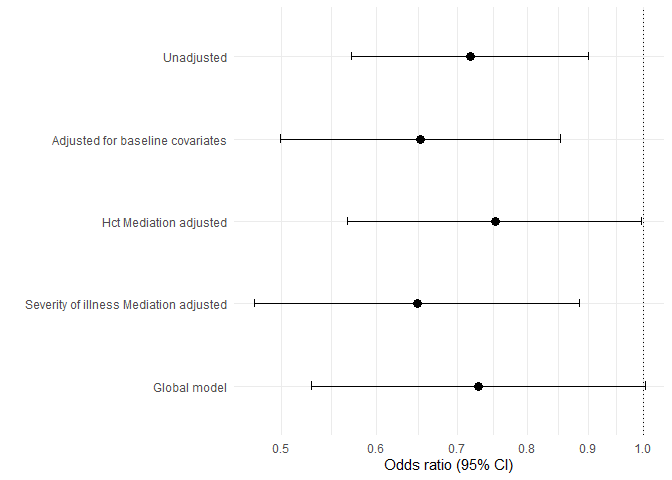
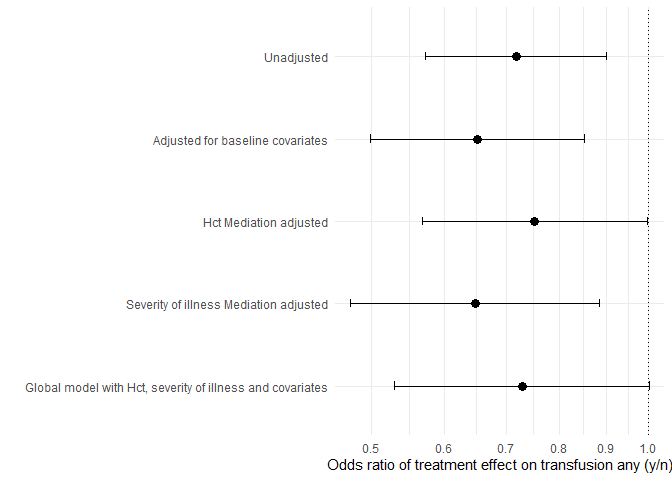
simplfying

diff --git a/Analysis_medflex_for_Git2.md b/Analysis_medflex_for_Git2.md
@@ -394,21 +394,26 @@ plot.a
 
 # Medflex (sequential approach)
 
-<https://academic.oup.com/ije/article/47/3/829/4829681?login=true>
+Modeling approach informed by
 
-kristy paper
+kristy Robledo’s paper
 <https://academic.oup.com/ejendo/article/189/1/50/7219871?login=true>
 <https://github.com/kristyrobledo/T4DM_mediation_paper>
 
-instruction paper
-<https://bmcmedresmethodol.biomedcentral.com/articles/10.1186/s12874-022-01764-w>
+Zoe Aitken’s paper on sequential mediation
+<https://academic.oup.com/ije/article/47/3/829/4829681?login=true>
 
+and D Zugna’s instruction paper
+<https://bmcmedresmethodol.biomedcentral.com/articles/10.1186/s12874-022-01764-w>
 (sup materials)
 <https://static-content.springer.com/esm/art%3A10.1186%2Fs12874-022-01764-w/MediaObjects/12874_2022_1764_MOESM1_ESM.pdf>
 
 ## Outcome: transufsion any (y/n)
 
 ### Mediation of Hct peak (M1 only)
+
+First we examine whether Hct alone mediates the effect of intervention
+of outcome
 
 ``` r
 final_df1 <- final_df %>% filter(!is.na(rc_transfusion_titans) &
@@ -559,7 +564,10 @@ print(paste0("Proportion mediated: ",prop_mediated_M1.model_trans_any , "%"))
 
     ## [1] "Proportion mediated: 37.1%"
 
-## Joint model including both Hct (M1) and Severity of illness (M2)
+### Transfusion (any) - all mediator joint model
+
+Next we examine whether all mediators in a joint model contribute any
+additional mediation over and above Hct
 
 ``` r
 final_df1 <- final_df %>% filter(!is.na(hct_week1_peak)&
@@ -569,44 +577,46 @@ final_df1 <- final_df %>% filter(!is.na(hct_week1_peak)&
                                   !is.na(GA_weeks_and_days_integer)&
                                   !is.na(multiple))
 
-
-#==========================================================================================================
-impData <- medflex::neImpute(rc_transfusion_titans ~ factor(treatment_cat1) +
-                     hct_week1_peak +cumalitive_blood_vol_sampled +  arterial_lines+ mech_vent_combined +
-                    GA_weeks_and_days_integer +
-                    multiple,
+impData <- medflex::neImpute(rc_transfusion_titans ~ factor(treatment_cat1) + 
+                               hct_week1_peak +
+                               cumalitive_blood_vol_sampled + 
+                               arterial_lines +
+                               mech_vent_combined + 
+                               GA_weeks_and_days_integer + 
+                               multiple,
                     family = binomial("logit"), nMed = 4, data = final_df1)
 
 
 #head(impData)
-neMod.extra.cont <- medflex::neModel(rc_transfusion_titans ~ treatment_cat10+
-                              treatment_cat11+
-                    GA_weeks_and_days_integer +
+neMod.extra.cont <- medflex::neModel(rc_transfusion_titans ~ treatment_cat10+ treatment_cat11 +
+                    GA_weeks_and_days_integer+
                     multiple,
                   family = binomial("logit"),
                   expData = impData,
-                  se = "robust")
+                 se="bootstrap",nBoot = 1000)
+```
 
+    ##   |                                                                              |                                                                      |   0%  |                                                                              |                                                                      |   1%  |                                                                              |=                                                                     |   1%  |                                                                              |=                                                                     |   2%  |                                                                              |==                                                                    |   2%  |                                                                              |==                                                                    |   3%  |                                                                              |==                                                                    |   4%  |                                                                              |===                                                                   |   4%  |                                                                              |===                                                                   |   5%  |                                                                              |====                                                                  |   5%  |                                                                              |====                                                                  |   6%  |                                                                              |=====                                                                 |   6%  |                                                                              |=====                                                                 |   7%  |                                                                              |=====                                                                 |   8%  |                                                                              |======                                                                |   8%  |                                                                              |======                                                                |   9%  |                                                                              |=======                                                               |   9%  |                                                                              |=======                                                               |  10%  |                                                                              |=======                                                               |  11%  |                                                                              |========                                                              |  11%  |                                                                              |========                                                              |  12%  |                                                                              |=========                                                             |  12%  |                                                                              |=========                                                             |  13%  |                                                                              |=========                                                             |  14%  |                                                                              |==========                                                            |  14%  |                                                                              |==========                                                            |  15%  |                                                                              |===========                                                           |  15%  |                                                                              |===========                                                           |  16%  |                                                                              |============                                                          |  16%  |                                                                              |============                                                          |  17%  |                                                                              |============                                                          |  18%  |                                                                              |=============                                                         |  18%  |                                                                              |=============                                                         |  19%  |                                                                              |==============                                                        |  19%  |                                                                              |==============                                                        |  20%  |                                                                              |==============                                                        |  21%  |                                                                              |===============                                                       |  21%  |                                                                              |===============                                                       |  22%  |                                                                              |================                                                      |  22%  |                                                                              |================                                                      |  23%  |                                                                              |================                                                      |  24%  |                                                                              |=================                                                     |  24%  |                                                                              |=================                                                     |  25%  |                                                                              |==================                                                    |  25%  |                                                                              |==================                                                    |  26%  |                                                                              |===================                                                   |  26%  |                                                                              |===================                                                   |  27%  |                                                                              |===================                                                   |  28%  |                                                                              |====================                                                  |  28%  |                                                                              |====================                                                  |  29%  |                                                                              |=====================                                                 |  29%  |                                                                              |=====================                                                 |  30%  |                                                                              |=====================                                                 |  31%  |                                                                              |======================                                                |  31%  |                                                                              |======================                                                |  32%  |                                                                              |=======================                                               |  32%  |                                                                              |=======================                                               |  33%  |                                                                              |=======================                                               |  34%  |                                                                              |========================                                              |  34%  |                                                                              |========================                                              |  35%  |                                                                              |=========================                                             |  35%  |                                                                              |=========================                                             |  36%  |                                                                              |==========================                                            |  36%  |                                                                              |==========================                                            |  37%  |                                                                              |==========================                                            |  38%  |                                                                              |===========================                                           |  38%  |                                                                              |===========================                                           |  39%  |                                                                              |============================                                          |  39%  |                                                                              |============================                                          |  40%  |                                                                              |============================                                          |  41%  |                                                                              |=============================                                         |  41%  |                                                                              |=============================                                         |  42%  |                                                                              |==============================                                        |  42%  |                                                                              |==============================                                        |  43%  |                                                                              |==============================                                        |  44%  |                                                                              |===============================                                       |  44%  |                                                                              |===============================                                       |  45%  |                                                                              |================================                                      |  45%  |                                                                              |================================                                      |  46%  |                                                                              |=================================                                     |  46%  |                                                                              |=================================                                     |  47%  |                                                                              |=================================                                     |  48%  |                                                                              |==================================                                    |  48%  |                                                                              |==================================                                    |  49%  |                                                                              |===================================                                   |  49%  |                                                                              |===================================                                   |  50%  |                                                                              |===================================                                   |  51%  |                                                                              |====================================                                  |  51%  |                                                                              |====================================                                  |  52%  |                                                                              |=====================================                                 |  52%  |                                                                              |=====================================                                 |  53%  |                                                                              |=====================================                                 |  54%  |                                                                              |======================================                                |  54%  |                                                                              |======================================                                |  55%  |                                                                              |=======================================                               |  55%  |                                                                              |=======================================                               |  56%  |                                                                              |========================================                              |  56%  |                                                                              |========================================                              |  57%  |                                                                              |========================================                              |  58%  |                                                                              |=========================================                             |  58%  |                                                                              |=========================================                             |  59%  |                                                                              |==========================================                            |  59%  |                                                                              |==========================================                            |  60%  |                                                                              |==========================================                            |  61%  |                                                                              |===========================================                           |  61%  |                                                                              |===========================================                           |  62%  |                                                                              |============================================                          |  62%  |                                                                              |============================================                          |  63%  |                                                                              |============================================                          |  64%  |                                                                              |=============================================                         |  64%  |                                                                              |=============================================                         |  65%  |                                                                              |==============================================                        |  65%  |                                                                              |==============================================                        |  66%  |                                                                              |===============================================                       |  66%  |                                                                              |===============================================                       |  67%  |                                                                              |===============================================                       |  68%  |                                                                              |================================================                      |  68%  |                                                                              |================================================                      |  69%  |                                                                              |=================================================                     |  69%  |                                                                              |=================================================                     |  70%  |                                                                              |=================================================                     |  71%  |                                                                              |==================================================                    |  71%  |                                                                              |==================================================                    |  72%  |                                                                              |===================================================                   |  72%  |                                                                              |===================================================                   |  73%  |                                                                              |===================================================                   |  74%  |                                                                              |====================================================                  |  74%  |                                                                              |====================================================                  |  75%  |                                                                              |=====================================================                 |  75%  |                                                                              |=====================================================                 |  76%  |                                                                              |======================================================                |  76%  |                                                                              |======================================================                |  77%  |                                                                              |======================================================                |  78%  |                                                                              |=======================================================               |  78%  |                                                                              |=======================================================               |  79%  |                                                                              |========================================================              |  79%  |                                                                              |========================================================              |  80%  |                                                                              |========================================================              |  81%  |                                                                              |=========================================================             |  81%  |                                                                              |=========================================================             |  82%  |                                                                              |==========================================================            |  82%  |                                                                              |==========================================================            |  83%  |                                                                              |==========================================================            |  84%  |                                                                              |===========================================================           |  84%  |                                                                              |===========================================================           |  85%  |                                                                              |============================================================          |  85%  |                                                                              |============================================================          |  86%  |                                                                              |=============================================================         |  86%  |                                                                              |=============================================================         |  87%  |                                                                              |=============================================================         |  88%  |                                                                              |==============================================================        |  88%  |                                                                              |==============================================================        |  89%  |                                                                              |===============================================================       |  89%  |                                                                              |===============================================================       |  90%  |                                                                              |===============================================================       |  91%  |                                                                              |================================================================      |  91%  |                                                                              |================================================================      |  92%  |                                                                              |=================================================================     |  92%  |                                                                              |=================================================================     |  93%  |                                                                              |=================================================================     |  94%  |                                                                              |==================================================================    |  94%  |                                                                              |==================================================================    |  95%  |                                                                              |===================================================================   |  95%  |                                                                              |===================================================================   |  96%  |                                                                              |====================================================================  |  96%  |                                                                              |====================================================================  |  97%  |                                                                              |====================================================================  |  98%  |                                                                              |===================================================================== |  98%  |                                                                              |===================================================================== |  99%  |                                                                              |======================================================================|  99%  |                                                                              |======================================================================| 100%
 
-#summary(neMod.extra.cont)
-
+``` r
 cont.extra<-data.frame(est = neMod.extra.cont$neModelFit$coefficients, confint(neMod.extra.cont))
+
 
 lht <- medflex::neLht(neMod.extra.cont, linfct = c("treatment_cat101 = 0", 
                                           "treatment_cat111  = 0", 
                                           "treatment_cat101 + treatment_cat111  = 0"))
 
+
 t<-summary(lht)
+#t
 
 cat.extra<-data.frame(est = exp(t$coefficients[,1]), exp(confint(lht)))
 
-#t
 
 
 #pte.direct.cat<-(t$coefficients[1,1]/t$coefficients[3,1])*100
 pte.indirect.cat<-(t$coefficients[2,1]/t$coefficients[3,1])*100
 #pte.indirect.cat
-
 
 cat.extra %>%
   mutate(name = c("Direct effect", "Indirect effect", "Total effect")) %>%
@@ -624,19 +634,21 @@ plot.a2
 <img src="Analysis_medflex_for_Git2_files/figure-gfm/unnamed-chunk-14-1.png" width="100%" />
 
 ``` r
-#code to table results
+#Formulat for table
 cat.extra <- cat.extra %>%
   mutate(Effect = c("Direct effect", "Indirect effect", "Total effect")) %>% relocate(Effect) %>% dplyr::rename(
     "Estimate"= est,
     "95%_CI_L"= `X95..LCL`,
-   "95%_CI_U"= `X95..UCL`)
+   "95%_CI_U"= `X95..UCL`,)
 row.names(cat.extra) <- NULL
 
 #cat.extra
 
 
 joint.M1M2.model_transfusion_any <- cat.extra
-joint.M1M2.model_transfusion_any %>% kable()# %>% kable_styling()
+
+
+joint.M1M2.model_transfusion_any %>% kable()
 ```
 
 <table>
@@ -665,10 +677,10 @@ Direct effect
 0.7636927
 </td>
 <td style="text-align:right;">
-0.5800280
+0.5778973
 </td>
 <td style="text-align:right;">
-1.0055144
+1.0079939
 </td>
 </tr>
 <tr>
@@ -679,10 +691,10 @@ Indirect effect
 0.9072675
 </td>
 <td style="text-align:right;">
-0.8029812
+0.8046123
 </td>
 <td style="text-align:right;">
-1.0250978
+1.0286309
 </td>
 </tr>
 <tr>
@@ -693,10 +705,10 @@ Total effect
 0.6928736
 </td>
 <td style="text-align:right;">
-0.5162991
+0.5154864
 </td>
 <td style="text-align:right;">
-0.9298366
+0.9352713
 </td>
 </tr>
 </tbody>
@@ -704,10 +716,13 @@ Total effect
 
 ``` r
 prop_mediated_joint_model_trans_any <-  round((t$coef[3]/(t$coef[2]+t$coef[3])*100),1)
-paste0("Proportion mediated: ",prop_mediated_joint_model_trans_any, "%")
+paste0("Proportion mediated: ",joint.M1M2.model_transfusion_any, "%")
 ```
 
-    ## [1] "Proportion mediated: 26.5%"
+    ## [1] "Proportion mediated: c(\"Direct effect\", \"Indirect effect\", \"Total effect\")%"
+    ## [2] "Proportion mediated: c(0.763692704873228, 0.90726748915055, 0.692873562832926)%"  
+    ## [3] "Proportion mediated: c(0.577897280248151, 0.804612323208957, 0.515486378260197)%" 
+    ## [4] "Proportion mediated: c(1.00799392129656, 1.02863093407051, 0.935271349579594)%"
 
 # Table of results
 
@@ -813,7 +828,7 @@ M1M2 joint model: transfusion_any
 Total effect
 </td>
 <td style="text-align:left;">
-0.69 (0.52-0.93)
+0.69 (0.52-0.94)
 </td>
 </tr>
 </tbody>
